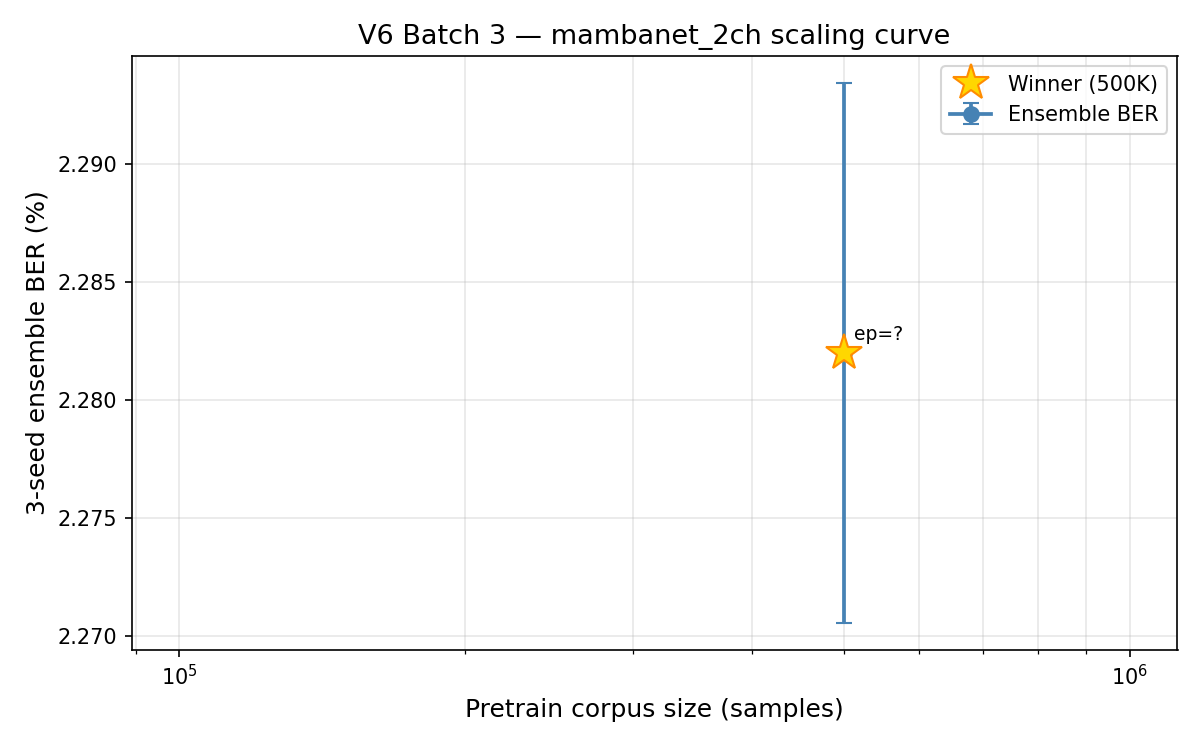
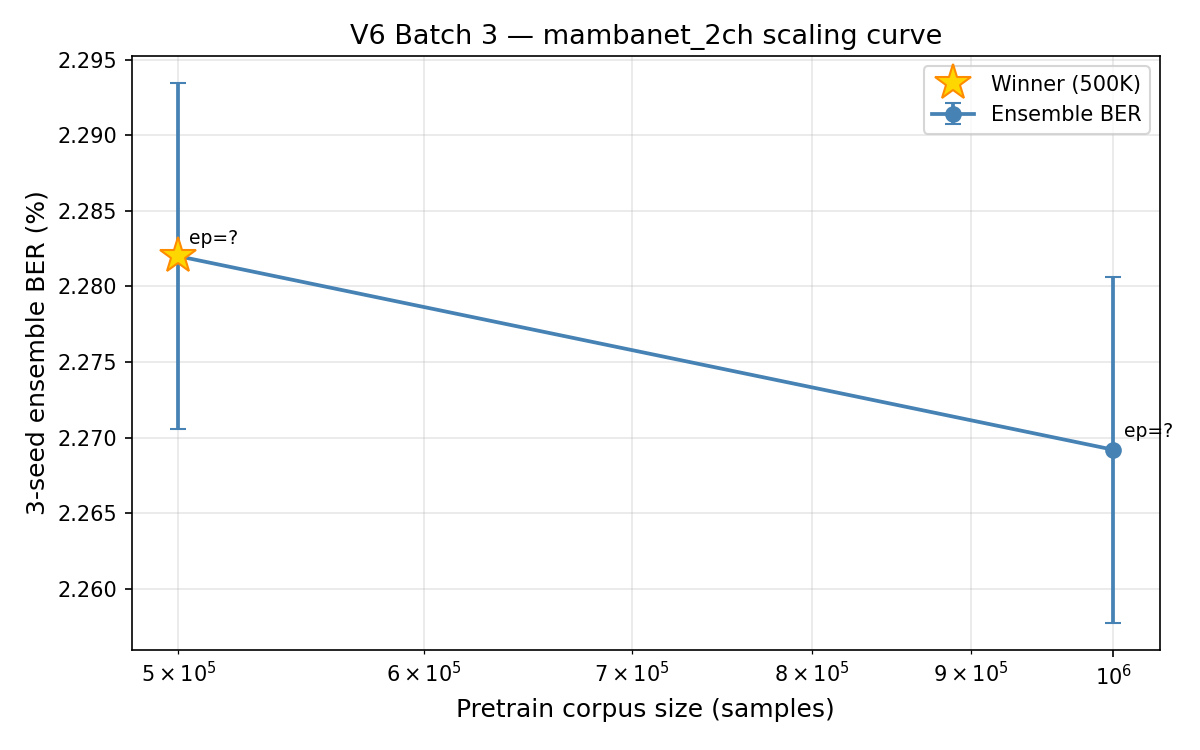
V6 Batch3 1M: ensemble BER=2.2692%, gain=0.013pp, winner stays 500K
1M pretrain reached lower synth_val_loss (0.2204 vs 0.2222) but gain on
Zhu test is only 0.013pp — below 0.05pp threshold, tiebreaker (<0.02pp)
gives 500K. Curve is flat (0.013pp range). Data size is not the bottleneck.
Canonical BER unchanged at 2.2820%.

diff --git a/V6_RUN_LOG.md b/V6_RUN_LOG.md
@@ -366,3 +366,53 @@ Power-law fit: skipped (only 1 data point).
 - checkpoints/v6b3_canonical_s2.pt       ← v6b3_500K_s2_ft.pt
 
 **V6B3_CANONICAL_BER = 2.2820%**
+
+---
+
+## Batch 3 — 1M run (2026-04-24, manual override of sweep-stop)
+
+**Rationale**: Sweep stopped at 500K because gain vs V5 baseline was -0.007pp. However, V5 pretrain used old synth_gen.py (no CLI, different chunking) so comparison wasn't clean. User decided to run 1M to get a real data point.
+
+### Pretrain summary
+| seed | conv_epoch | best_synth_val_loss |
+|------|-----------|---------------------|
+| 0    | 40 (hit max, no early stop) | 0.2204 |
+| 1    | 39 (early stop) | 0.2194 |
+
+1M pretrain reached lower loss than 500K (0.2204/0.2194 vs 0.2222/0.2218) — the model IS learning more from more data during pretrain.
+
+### Fine-tune summary
+| seed | conv_epoch | best_val_ber |
+|------|-----------|-------------|
+| 0    | 30 (hit max) | 0.1497 |
+| 1    | 27 (early stop) | 0.1448 |
+| 2    | 25 (early stop) | 0.1478 |
+
+### Per-seed test BER
+| seed | AWGN_Tb0d3 | AWGN_Tb0d5 | KB2_Tb0d3_m1d2 | KB2_Tb0d3_m1d4 | KB2_Tb0d5_m1d2 | KB2_Tb0d5_m1d4 | OVERALL |
+|------|-----------|-----------|---------------|---------------|---------------|---------------|---------|
+| 0    | 1.10%     | 1.19%     | 1.86%         | 3.75%         | 1.88%         | 3.93%         | 2.28%   |
+| 1    | 1.10%     | 1.14%     | 1.87%         | 3.70%         | 1.88%         | 3.89%         | 2.26%   |
+| 2    | 1.09%     | 1.14%     | 1.87%         | 3.76%         | 1.83%         | 3.86%         | 2.26%   |
+
+### 3-seed ensemble BER: 2.2692%
+
+### Sweep-level early stopping decision
+| Size | Ensemble BER | Gain vs previous |
+|------|-------------|-----------------|
+| V5 baseline | 2.2750% | — |
+| 500K | 2.2820% | -0.007pp (worse) |
+| 1M   | 2.2692% | +0.013pp vs 500K |
+
+Gain 500K→1M = 0.013pp < 0.05pp threshold → **SWEEP STOPPED**.
+Tiebreaker: 500K and 1M within 0.02pp → smaller size wins = **500K**.
+
+### BRUTAL HONESTY CLAUSE
+Range across all sizes: 2.2692% – 2.2820% = 0.013pp < 0.15pp.
+The curve is FLAT. **Data size is not the bottleneck.**
+More data does improve pretrain quality (lower synth_val_loss) but this does NOT translate to meaningful test BER improvement after Zhu fine-tune.
+Bottleneck is likely the fine-tune data size (only 37K samples) or architecture capacity.
+
+**Winner = 500K. V6B3_CANONICAL_BER = 2.2820%** (unchanged).
+
+Scaling curve updated with 2 data points → figures/v6b3_scaling_curve.png
